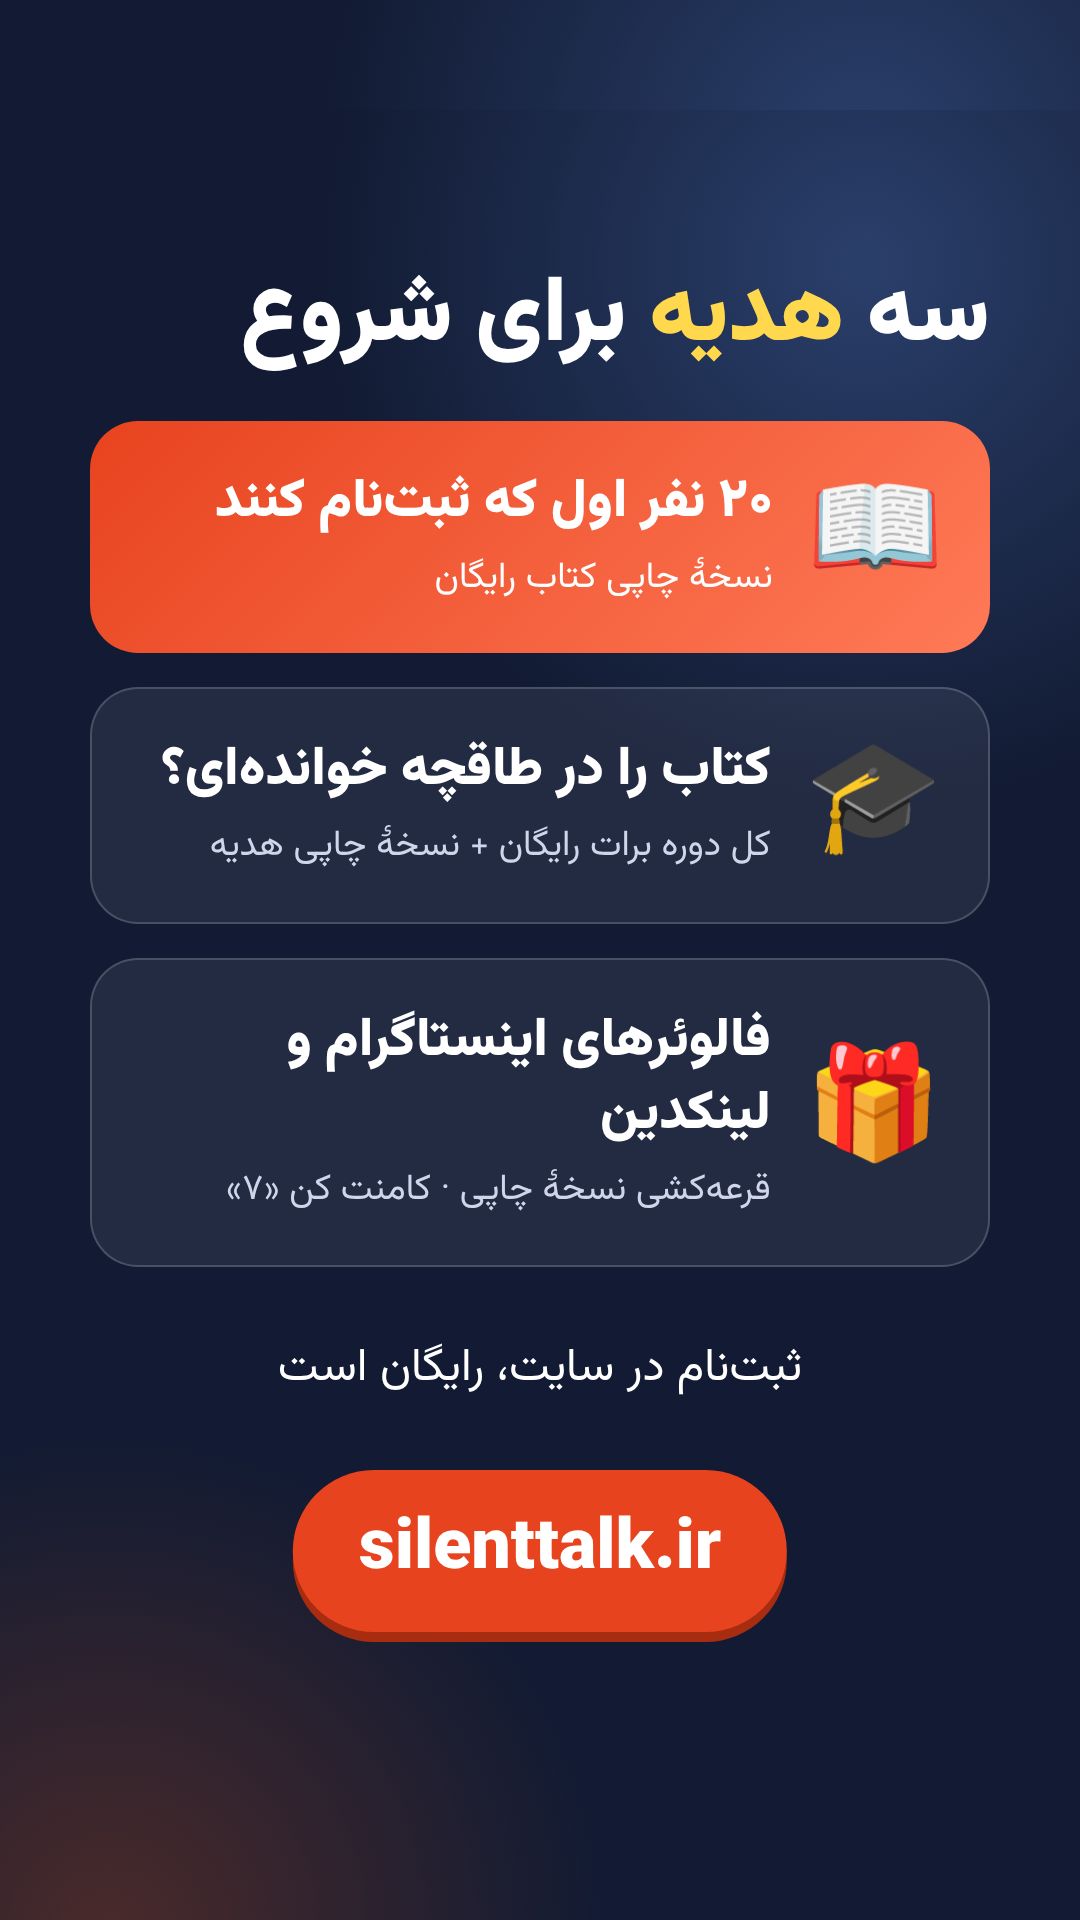
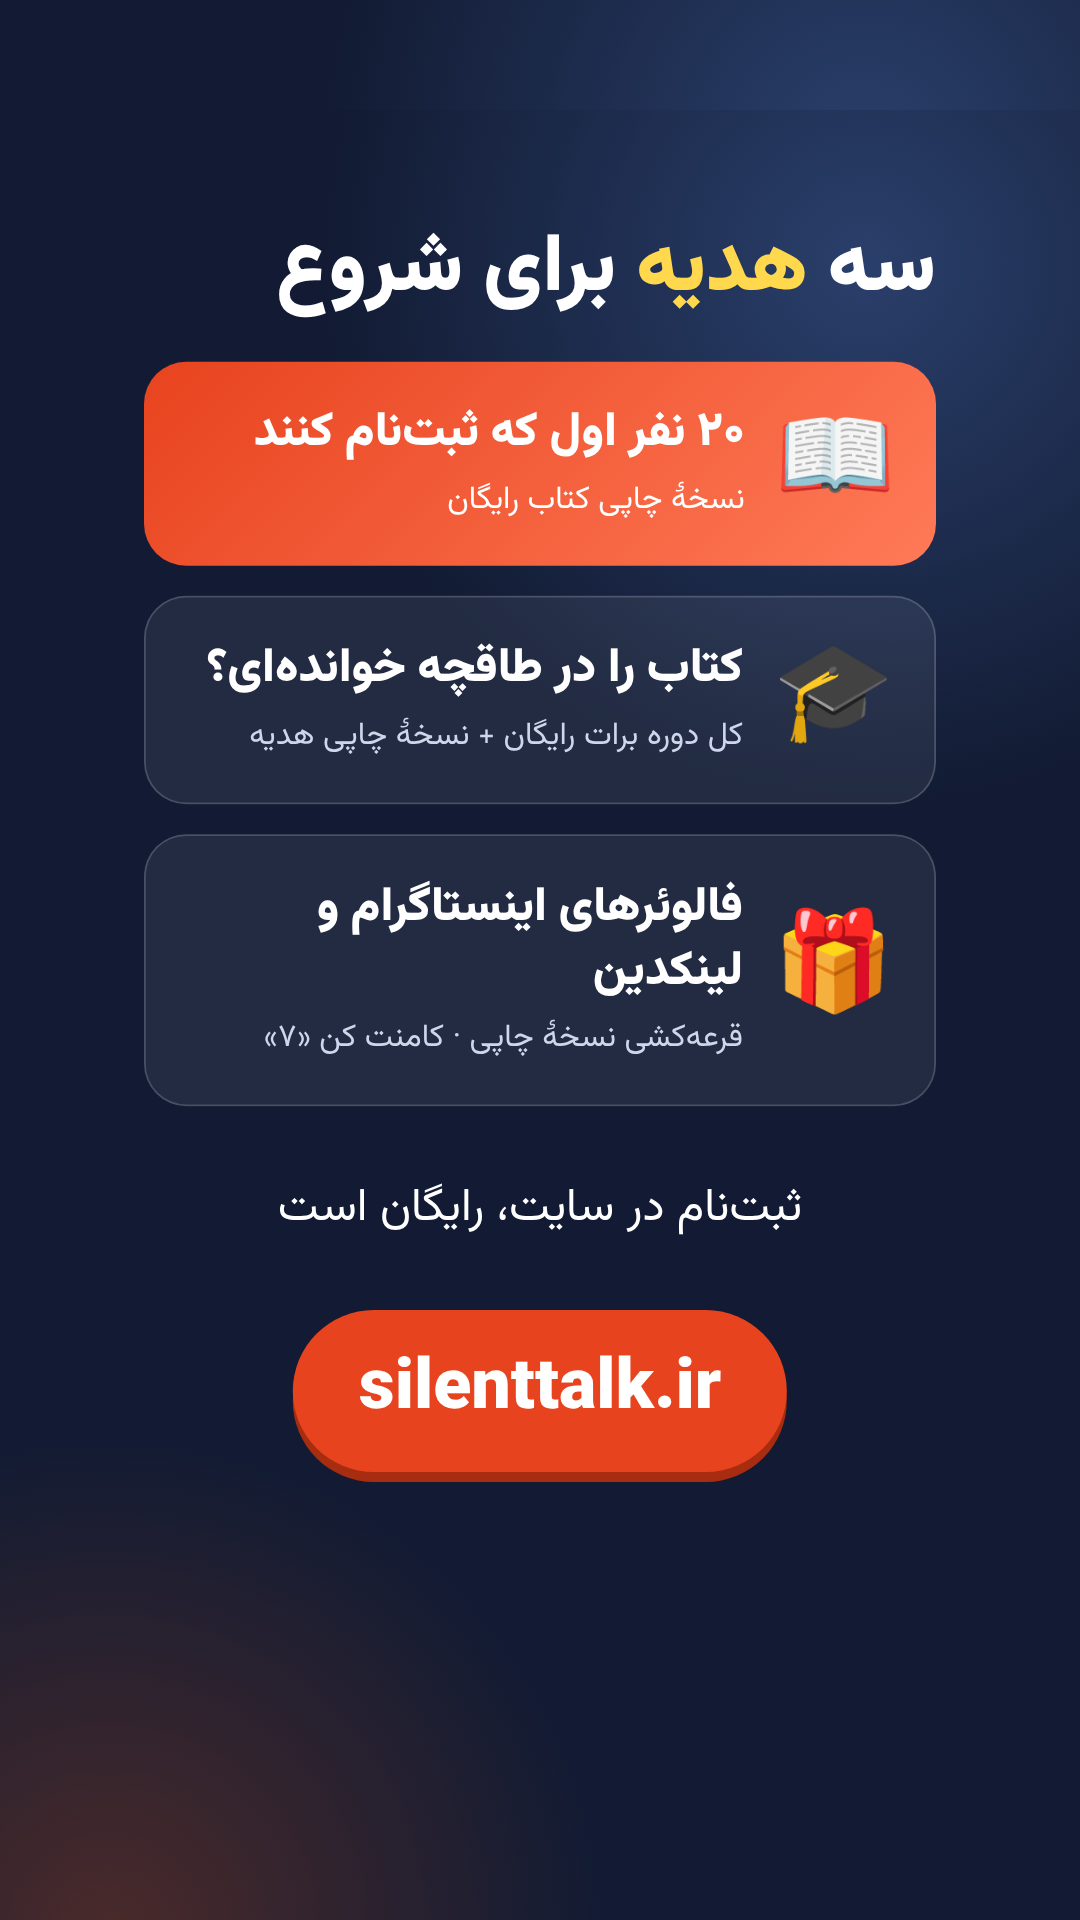
Site-intro story frames, queue for blog carousels
Claude-Session: https://claude.ai/code/session_01CDT7KYz6mgvKdQkAue4xCn

diff --git a/gen5/src/_blog.html b/gen5/src/_blog.html
@@ -11,7 +11,7 @@ box-shadow:0 40px 120px rgba(0,0,0,.55),0 0 0 3px #2b3a5f}
 .tag{position:absolute;right:90px;top:1245px;background:#E8431F;color:#fff;font-weight:800;font-size:38px;padding:12px 34px;border-radius:99px}
 </style>
 <style>
-.b{position:absolute;left:90px;right:90px;top:150px;display:flex;flex-direction:column;gap:30px}
+.b{position:absolute;left:90px;right:90px;top:110px;transform:scale(.86);transform-origin:top center;display:flex;flex-direction:column;gap:30px}
 .hd{font-size:92px;font-weight:900;line-height:1.25;margin-bottom:8px}
 .bp{background:#F6F1E7;color:#121B33;border-radius:44px;padding:40px 46px;box-shadow:0 8px 0 #cfc6b2}
 .bp small{font-size:28px;color:#E8431F;font-weight:800}.bp h3{font-size:50px;font-weight:900;line-height:1.4;margin-top:6px}
@@ -21,5 +21,4 @@ box-shadow:0 40px 120px rgba(0,0,0,.55),0 0 0 3px #2b3a5f}
  <div class='bp'><small>محل کار</small><h3>زبان بدن در جلسههای کاری: ۷ نشانهای که باید دید</h3></div>
  <div class='bp'><small>چهره</small><h3>لبخند واقعی یا مؤدبانه؟ راهنمای دیدن فرق</h3></div>
  <div class='bp'><small>مصاحبه</small><h3>زبان بدن در مصاحبهٔ شغلی: از ورود تا دست دادن</h3></div>
- <div class='bp'><small>دستها و بازوها</small><h3>دستبهسینه یعنی چه؟ همیشه «بسته» نیست</h3></div>
 </div>

diff --git a/gen5/src/_profile.html b/gen5/src/_profile.html
@@ -11,7 +11,7 @@ box-shadow:0 40px 120px rgba(0,0,0,.55),0 0 0 3px #2b3a5f}
 .tag{position:absolute;right:90px;top:1245px;background:#E8431F;color:#fff;font-weight:800;font-size:38px;padding:12px 34px;border-radius:99px}
 </style>
 <style>
-.card{position:absolute;left:110px;top:200px;width:860px;background:#F6F1E7;border-radius:56px;padding:56px;color:#121B33;box-shadow:0 40px 120px rgba(0,0,0,.5)}
+.card{position:absolute;left:110px;top:110px;transform:scale(.84);transform-origin:top center;width:860px;background:#F6F1E7;border-radius:56px;padding:56px;color:#121B33;box-shadow:0 40px 120px rgba(0,0,0,.5)}
 .hi{display:flex;justify-content:space-between;align-items:center}
 .hi b{font-size:56px;font-weight:900}.av{width:120px;height:120px;border-radius:50%;background:#121B33;color:#fff;font-size:56px;display:flex;align-items:center;justify-content:center;font-weight:800}
 .badge{display:inline-block;background:#2E7D5B;color:#fff;border-radius:99px;font-size:30px;padding:8px 26px;margin-top:14px;font-weight:700}

diff --git a/gen5/src/_gifts.html b/gen5/src/_gifts.html
@@ -11,7 +11,7 @@ box-shadow:0 40px 120px rgba(0,0,0,.55),0 0 0 3px #2b3a5f}
 .tag{position:absolute;right:90px;top:1245px;background:#E8431F;color:#fff;font-weight:800;font-size:38px;padding:12px 34px;border-radius:99px}
 </style>
 <style>
-.g{position:absolute;left:90px;right:90px;top:150px;display:flex;flex-direction:column;gap:34px}
+.g{position:absolute;left:90px;right:90px;top:110px;transform:scale(.88);transform-origin:top center;display:flex;flex-direction:column;gap:34px}
 .gi{background:rgba(255,255,255,.07);border:2px solid rgba(255,255,255,.18);border-radius:48px;padding:46px;display:flex;gap:34px;align-items:center}
 .gi .em{font-size:110px;line-height:1;flex:none}
 .gi h3{font-size:54px;font-weight:900;line-height:1.35}.gi p{font-size:36px;color:#cfd6ea;margin-top:10px;line-height:1.6}

diff --git a/gen5/src/_story2.html b/gen5/src/_story2.html
@@ -11,5 +11,5 @@ background:radial-gradient(900px 900px at 80% 8%,#2a3f6b 0,transparent 60%),radi
 .sc img{width:1080px;height:1920px;display:block}
 .safe{position:absolute;bottom:0;left:0;right:0;height:250px}
 </style><div style='position:absolute;inset:0'><img src='file:///home/claude/silent-talk-repo/gen5/site-gifts.png' style='width:1080px;height:1920px;transform:translateY(110px)'></div>
-<div class='sub' style='top:1330px;font-size:46px;color:#fff'>ثبتنام در سایت، رایگان است</div>
-<div class='pill' style='top:1470px'>silenttalk.ir</div>
+<div class='sub' style='top:1170px;font-size:46px;color:#fff'>ثبتنام در سایت، رایگان است</div>
+<div class='pill' style='top:1310px'>silenttalk.ir</div>

diff --git a/render/launch_site_scenes.py b/render/launch_site_scenes.py
@@ -34,7 +34,7 @@ SCENES["course"] = phone("course.png", 190)
 # designed cards -------------------------------------------------------
 SCENES["profile"] = """
 <style>
-.card{position:absolute;left:110px;top:200px;width:860px;background:#F6F1E7;border-radius:56px;padding:56px;color:#121B33;box-shadow:0 40px 120px rgba(0,0,0,.5)}
+.card{position:absolute;left:110px;top:110px;transform:scale(.84);transform-origin:top center;width:860px;background:#F6F1E7;border-radius:56px;padding:56px;color:#121B33;box-shadow:0 40px 120px rgba(0,0,0,.5)}
 .hi{display:flex;justify-content:space-between;align-items:center}
 .hi b{font-size:56px;font-weight:900}.av{width:120px;height:120px;border-radius:50%;background:#121B33;color:#fff;font-size:56px;display:flex;align-items:center;justify-content:center;font-weight:800}
 .badge{display:inline-block;background:#2E7D5B;color:#fff;border-radius:99px;font-size:30px;padding:8px 26px;margin-top:14px;font-weight:700}
@@ -53,7 +53,7 @@ SCENES["profile"] = """
 
 SCENES["gifts"] = """
 <style>
-.g{position:absolute;left:90px;right:90px;top:150px;display:flex;flex-direction:column;gap:34px}
+.g{position:absolute;left:90px;right:90px;top:110px;transform:scale(.88);transform-origin:top center;display:flex;flex-direction:column;gap:34px}
 .gi{background:rgba(255,255,255,.07);border:2px solid rgba(255,255,255,.18);border-radius:48px;padding:46px;display:flex;gap:34px;align-items:center}
 .gi .em{font-size:110px;line-height:1;flex:none}
 .gi h3{font-size:54px;font-weight:900;line-height:1.35}.gi p{font-size:36px;color:#cfd6ea;margin-top:10px;line-height:1.6}
@@ -69,7 +69,7 @@ SCENES["gifts"] = """
 
 SCENES["blog"] = """
 <style>
-.b{position:absolute;left:90px;right:90px;top:150px;display:flex;flex-direction:column;gap:30px}
+.b{position:absolute;left:90px;right:90px;top:110px;transform:scale(.86);transform-origin:top center;display:flex;flex-direction:column;gap:30px}
 .hd{font-size:92px;font-weight:900;line-height:1.25;margin-bottom:8px}
 .bp{background:#F6F1E7;color:#121B33;border-radius:44px;padding:40px 46px;box-shadow:0 8px 0 #cfc6b2}
 .bp small{font-size:28px;color:#E8431F;font-weight:800}.bp h3{font-size:50px;font-weight:900;line-height:1.4;margin-top:6px}
@@ -79,7 +79,6 @@ SCENES["blog"] = """
  <div class='bp'><small>محل کار</small><h3>زبان بدن در جلسههای کاری: ۷ نشانهای که باید دید</h3></div>
  <div class='bp'><small>چهره</small><h3>لبخند واقعی یا مؤدبانه؟ راهنمای دیدن فرق</h3></div>
  <div class='bp'><small>مصاحبه</small><h3>زبان بدن در مصاحبهٔ شغلی: از ورود تا دست دادن</h3></div>
- <div class='bp'><small>دستها و بازوها</small><h3>دستبهسینه یعنی چه؟ همیشه «بسته» نیست</h3></div>
 </div>"""
 
 SCENES["url"] = """

diff --git a/render/launch_site_reel.py b/render/launch_site_reel.py
@@ -15,9 +15,9 @@ SPEC = dict(
         dict(img="path", t0=3.8, t1=7.4, cam=(0.5, 0.5, 1.0, 0.5, 0.38, 1.12)),
         dict(img="pro", t0=7.4, t1=11.0, cam=(0.5, 0.5, 1.0, 0.5, 0.38, 1.12)),
         dict(img="course", t0=11.0, t1=14.6, cam=(0.5, 0.5, 1.0, 0.5, 0.38, 1.12)),
-        dict(img="profile", t0=14.6, t1=18.4, cam=(0.5, 0.45, 1.0, 0.5, 0.40, 1.12)),
-        dict(img="blog", t0=18.4, t1=22.4, cam=(0.5, 0.45, 1.0, 0.5, 0.42, 1.10)),
-        dict(img="gifts", t0=22.4, t1=27.4, cam=(0.5, 0.42, 1.0, 0.5, 0.40, 1.10)),
+        dict(img="profile", t0=14.6, t1=18.4, cam=(0.5, 0.45, 1.0, 0.5, 0.44, 1.04)),
+        dict(img="blog", t0=18.4, t1=22.4, cam=(0.5, 0.45, 1.0, 0.5, 0.44, 1.04)),
+        dict(img="gifts", t0=22.4, t1=27.4, cam=(0.5, 0.45, 1.0, 0.5, 0.44, 1.04)),
     ],
     flashes=[], whooshes=[3.9, 7.5, 11.1, 14.7, 18.5, 22.5], dings=[22.9, 24.0, 25.1],
     texts=[
@@ -27,7 +27,7 @@ SPEC = dict(
         ("t4", block("دورهٔ *۸ درسی*", size=68, sub="توضیح کوتاه، تمرین و یک سؤال"), 11.4, 14.4),
         ("t5", block("پروفایل یادگیری", size=68, sub="سطح و *پیشرفتت* همیشه همراهته"), 15.0, 18.2),
         ("t6", block("و یک *وبلاگ* تازه", size=68, sub="مقالههای کوتاه دربارهٔ زبان بدن"), 18.8, 22.2),
-        ("t7", block("سه *هدیه* منتظر توئه", size=68, sub="۲۰ نفر اول: *کتاب چاپی* رایگان<br>خوانندگان طاقچه: دوره و کتاب چاپی<br>فالوئرها: قرعهکشی؛ کامنت کن «۷»", subsize=40, top=1130), 22.8, 27.2),
+        ("t7", block("ثبتنام *رایگان* است", size=68, sub="silenttalk.ir<br>برای قرعهکشی، کامنت کن «۷»", subsize=44, top=1250), 22.8, 27.2),
     ],
     end_html=end_card("ثبتنام رایگان در silenttalk.ir", "آزمون ۲ دقیقهای · دوره · وبلاگ · هدیه"),
 )

diff --git a/render/launch_site_story.py b/render/launch_site_story.py
@@ -26,8 +26,8 @@ FR[1] = f"""<div class='top' style='top:150px;font-size:76px'>سایت <span cla
 <div class='pill' style='top:1490px'>silenttalk.ir</div>
 <div class='sub' style='top:1640px;font-size:38px'>آزمون ۲ دقیقهای · دورهٔ ۸ درسی · وبلاگ</div>"""
 FR[2] = f"""<div style='position:absolute;inset:0'><img src='{G5}/site-gifts.png' style='width:1080px;height:1920px;transform:translateY(110px)'></div>
-<div class='sub' style='top:1330px;font-size:46px;color:#fff'>ثبتنام در سایت، رایگان است</div>
-<div class='pill' style='top:1470px'>silenttalk.ir</div>"""
+<div class='sub' style='top:1170px;font-size:46px;color:#fff'>ثبتنام در سایت، رایگان است</div>
+<div class='pill' style='top:1310px'>silenttalk.ir</div>"""
 FR[3] = f"""<div class='top' style='top:240px'>۲۰ نفر اول که<br>در سایت <span class='y'>ثبتنام</span> کنند</div>
 <div style='position:absolute;left:110px;right:110px;top:640px;background:linear-gradient(135deg,#E8431F,#ff7a57);border-radius:72px;padding:90px 60px;text-align:center;box-shadow:0 30px 90px rgba(0,0,0,.5)'>
 <div style='font-size:190px;line-height:1'>📖</div><div style='font-size:78px;font-weight:900;margin-top:30px;line-height:1.4'>نسخهٔ چاپی کتاب<br>«درک زبان بدن»</div><div style='font-size:52px;margin-top:20px'>هدیه از طرف ما</div></div>
